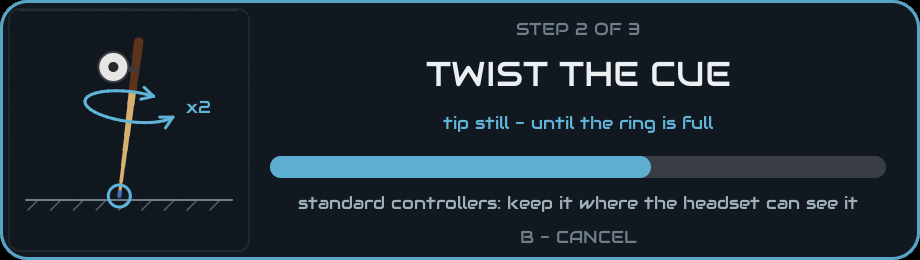
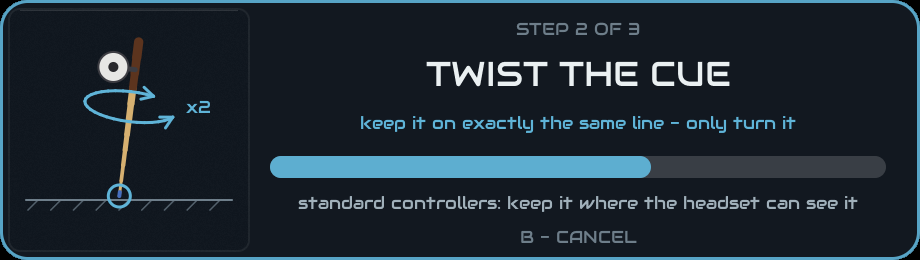
CueVR guide: step 2's critical rule -- the cue stays on exactly the same line, only turned -- as a note, in the steps and the refusal table

Changed region(s): [[0.3652, 0.4308, 0.8826, 0.5231]]

diff --git a/docs/cuevr-guide.html b/docs/cuevr-guide.html
@@ -863,9 +863,16 @@
       <figcaption>The card for step 2, part way through.</figcaption>
     </figure>
   </div>
+  <div class="note">
+    <b>Keep the cue on exactly the same line.</b> This is the one thing that matters in this step.
+    Only turn the cue round its own length, like turning a key: do not let it lean, sway or wander
+    while you turn it. The game measures the line the cue turns about, so any lean goes straight
+    into your calibration as an aim error. Hold it lightly at the top, keep the tip planted, and
+    turn it slowly rather than quickly.
+  </div>
   <ol>
-    <li>Keep the tip on its spot and turn the cue in your fingers, about half a turn one way, then
-    half a turn the other way, back and forth.</li>
+    <li>Keep the tip on its spot and the cue on the same line, and turn the cue in your fingers,
+    about half a turn one way, then half a turn the other way, back and forth.</li>
     <li>Keep going until the ring is full. It takes about four half turns, five seconds or so.</li>
   </ol>
   <p>The dotted line shows where the game thinks the middle of your cue is. When it runs down the
@@ -932,9 +939,9 @@
     <tr><td><b>LOST THE CONTROLLER - KEEP IT IN VIEW</b></td><td>The headset could not see the
       controller for too long. Hold the cue further out in front of you, and keep your hand off
       the front of the controller.</td></tr>
-    <tr><td><b>TOO MUCH WOBBLE - AGAIN, SLOWER</b></td><td>The cue leaned about too much while you
-      twisted it. You go back to step 2 with the tip still down: twist again, more slowly, keeping
-      the cue upright.</td></tr>
+    <tr><td><b>IT LEANED - KEEP IT ON THE SAME LINE</b></td><td>The cue leaned about too much while
+      you twisted it. You go back to step 2 with the tip still down: twist again, more slowly, only
+      turning the cue and keeping it on the same line.</td></tr>
   </table>
 
   <h3>Saved calibrations</h3>
